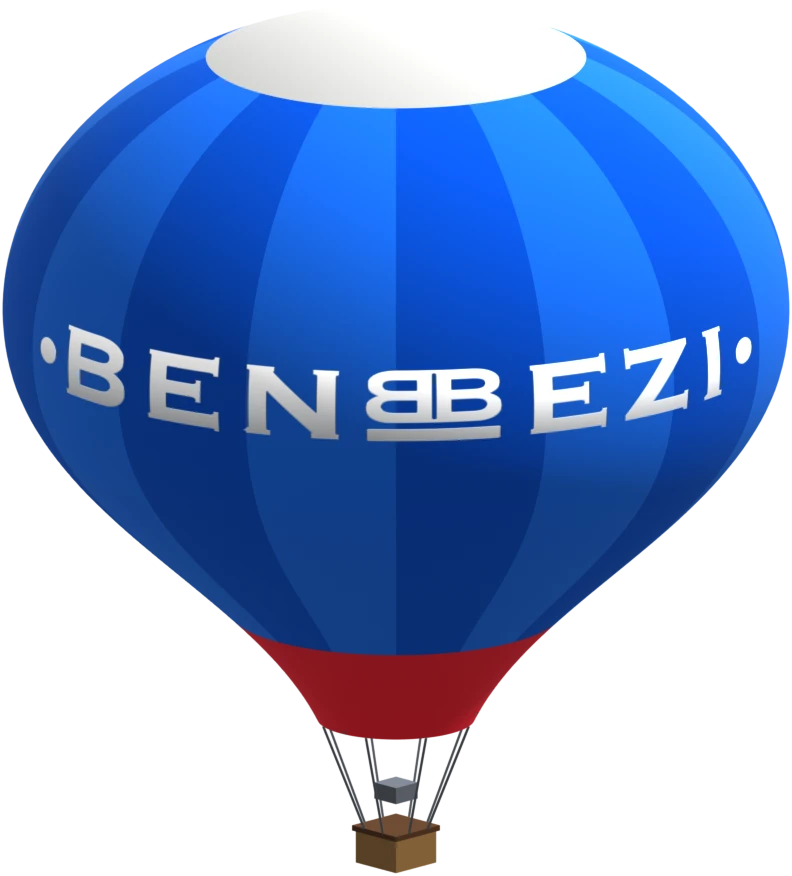
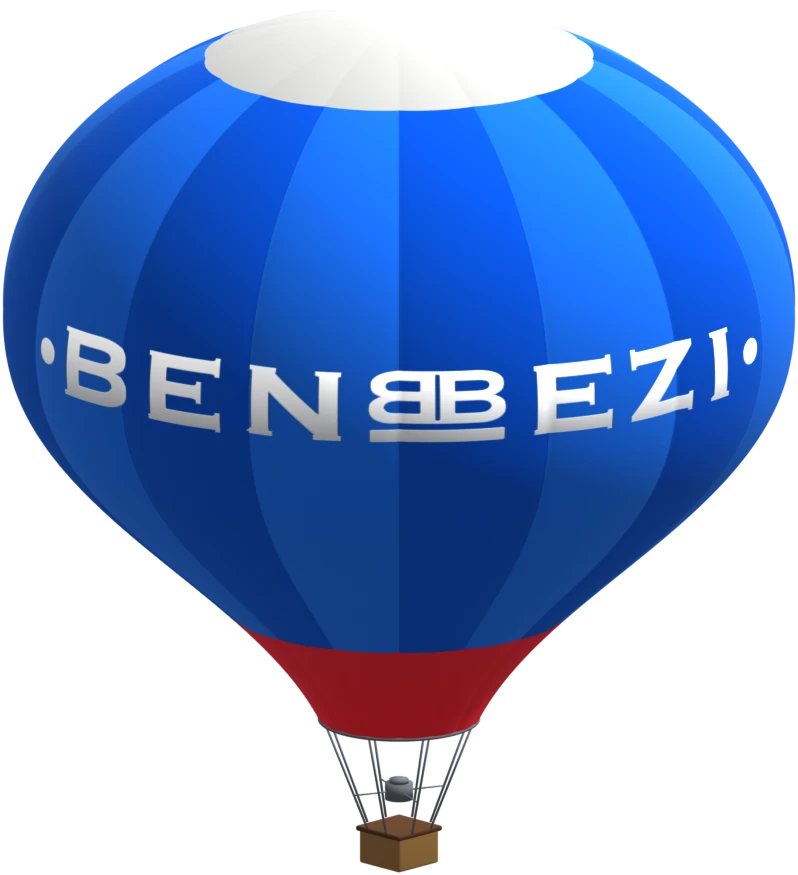
Montgolfiere en ultra poly : 512 cotes, 384 paralleles, la toile qui bombe
L'enveloppe passe de 128 x 96 a 512 x 384 (196 608 faces, 199 264 pour la
piece entiere). Les seize fuseaux bombent entre deux rubans de charge
(BOMBE = 1,4 %), comme une toile gonflee : la silhouette ondule a peine et
l'ombre se creuse a chaque couture. Plus rien n'y a moins de soixante-quatre
cotes : suspentes, bruleur et anneau de charge sont des tubes, la nacelle
et sa bordure des caissons aux aretes arrondies, et le bruleur pend aux
suspentes par quatre bras au lieu de flotter.

diff --git a/tools/blender/decors/champ-de-mars.py b/tools/blender/decors/champ-de-mars.py
@@ -622,11 +622,13 @@ def portique(racine, dessus=False):
 # blanche, le corps bleu ou court le logo BENBEZI, la jupe rouge — le
 # tricolore du lieu, du haut vers le bas.
 #
-# EN HAUTE DEFINITION, ET C'EST UNE CONSIGNE. Cent vingt-huit fuseaux et
-# quatre-vingt-seize paralleles, lisses : au-dessous de soixante-quatre
-# facettes (pieces.FACETTES_MIN), une enveloppe gonflee se lit comme une
-# boule a facettes. Les fuseaux alternent deux bleus, huit cotes chacun :
-# c'est la couture qu'on voit sur un vrai ballon, pas la maille.
+# EN ULTRA POLY, ET C'EST UNE CONSIGNE. Cinq cent douze cotes et trois cent
+# quatre-vingt-quatre paralleles, lisses — pres de deux cent mille faces pour
+# l'enveloppe seule ; rien, dans ce ballon, n'a moins de soixante-quatre
+# cotes (pieces.FACETTES_MIN) : suspentes, bruleur et anneau de charge sont
+# des tubes. Les seize fuseaux alternent deux bleus, et la toile BOMBE entre
+# deux rubans de charge, comme sur un vrai ballon gonfle : la silhouette
+# ondule a peine, et l'ombre se creuse a chaque couture.
 #
 # LE LOGO EST L'AFFICHE DES PANNEAUX (public/pubs), posee en texture sur le
 # devant. La camera regarde le long de (1, 1) : le devant du ballon est
@@ -638,7 +640,10 @@ def portique(racine, dessus=False):
 # le ballon sur la place qui lui reste dans le ciel.
 
 R_BALLON = 9.0
-FUSEAUX, PARALLELES = 128, 96
+FUSEAUX, PARALLELES = 512, 384
+NB_FUSEAUX = 16                      # les panneaux de toile, entre deux rubans
+BOMBE = 0.014                        # le gonflement de la toile entre deux rubans
+COTES = 64                           # le minimum de tout ce qui est rond
 F_LOGO = os.path.join(RACINE_PROJET, 'public', 'pubs', 'benbezi-logo-3d.webp')
 LOGO_ARC = math.radians(65)          # demi-ouverture du logo de part et d'autre du devant
 
@@ -689,6 +694,51 @@ def peinture_logo(nom, couleur, image, eclat_logo):
     return m
 
 
+def tube(bm, a, b, r):
+    """Un cylindre de COTES cotes, de a a b, ferme aux deux bouts."""
+    d = b - a
+    q = d.normalized().to_track_quat('Z', 'Y')
+    m = Matrix.Translation((a + b) / 2) @ q.to_matrix().to_4x4()
+    bmesh.ops.create_cone(bm, cap_ends=True, segments=COTES, radius1=r, radius2=r,
+                          depth=d.length, matrix=m)
+
+
+def tore(bm, R, z, r, n=COTES):
+    """L'anneau de charge : un tore de COTES x n/4 cotes, a plat a la hauteur z."""
+    m = max(16, n // 4)
+    v = [[bm.verts.new((math.cos(i / n * math.tau) * (R + r * math.cos(j / m * math.tau)),
+                        math.sin(i / n * math.tau) * (R + r * math.cos(j / m * math.tau)),
+                        z + r * math.sin(j / m * math.tau))) for j in range(m)] for i in range(n)]
+    for i in range(n):
+        for j in range(m):
+            bm.faces.new([v[i][j], v[(i + 1) % n][j], v[(i + 1) % n][(j + 1) % m], v[i][(j + 1) % m]])
+
+
+def lisse(nom, bm, mat, racine):
+    """Un maillage lisse, range sous le repere du jeu."""
+    bmesh.ops.recalc_face_normals(bm, faces=bm.faces[:])
+    me = bpy.data.meshes.new(nom)
+    bm.to_mesh(me)
+    bm.free()
+    o = bpy.data.objects.new(nom, me)
+    bpy.context.collection.objects.link(o)
+    o.data.materials.append(mat)
+    for p in o.data.polygons:
+        p.use_smooth = True
+    o.parent = racine
+    return o
+
+
+def caisson(nom, mat, racine, centre, taille, arrondi):
+    """Une boite aux aretes arrondies, de huit segments par arete."""
+    bm = bmesh.new()
+    bmesh.ops.create_cube(bm, size=1.0, matrix=Matrix.Translation(centre) @
+                          Matrix.Diagonal((*taille, 1.0)))
+    bmesh.ops.bevel(bm, geom=bm.edges[:] + bm.verts[:], offset=arrondi, segments=8,
+                    affect='EDGES', profile=0.5)
+    return lisse(nom, bm, mat, racine)
+
+
 def montgolfiere(racine):
     R = R_BALLON
     front = Vector((-1, -1, 0)).normalized()
@@ -714,7 +764,9 @@ def montgolfiere(racine):
         anneau = []
         for i in range(FUSEAUX):
             a = i / FUSEAUX * math.tau
-            p = (front * math.cos(a) + droite * math.sin(a)) * rho
+            frac = (i * NB_FUSEAUX / FUSEAUX) % 1.0
+            gonfle = 1 + BOMBE * math.sin(math.pi * frac) ** 0.7
+            p = (front * math.cos(a) + droite * math.sin(a)) * (rho * gonfle)
             anneau.append(bm.verts.new((p.x, p.y, z_eq + z)))
         anneaux.append(anneau)
     # le logo : haut comme le veut son image, sur l'arc LOGO_ARC
@@ -735,7 +787,7 @@ def montgolfiere(racine):
             i2 = (i + 1) % FUSEAUX
             vs = [haut[0], bas[i2], bas[i]] if j == 0 else [haut[i], haut[i2], bas[i2], bas[i]]
             f = bm.faces.new(vs)
-            fuseau = (i // 8) % 2
+            fuseau = (i * NB_FUSEAUX // FUSEAUX) % 2
             am = math.atan2(math.sin((i + 0.5) / FUSEAUX * math.tau), math.cos((i + 0.5) / FUSEAUX * math.tau))
             zm = sum(v.co.z for v in vs) / len(vs)
             if tm < 0.16:
@@ -761,22 +813,32 @@ def montgolfiere(racine):
         p.use_smooth = True
     o.parent = racine
 
-    # la nacelle d'osier, sa bordure de cuir, les suspentes et le bruleur
+    # la nacelle d'osier et sa bordure de cuir, aux aretes arrondies ; les
+    # suspentes, le bruleur et l'anneau de charge, en tubes
     osier, cuir = peinture('osier', 'osier'), peinture('cuir', 'cuir', 0.6)
-    Ln, Lb, Ls = Lot(), Lot(), Lot()
+    acier = peinture('suspente', 'metalSombre', 0.4)
     c = 0.65
-    Ln.boite(-c, -c, 0.0, c, c, 1.1)
-    Lb.boite(-c - 0.06, -c - 0.06, 1.0, c + 0.06, c + 0.06, 1.16)
+    caisson('nacelle', osier, racine, (0, 0, 0.55), (2 * c, 2 * c, 1.1), 0.07)
+    caisson('nacelle_bord', cuir, racine, (0, 0, 1.08), (2 * c + 0.12, 2 * c + 0.12, 0.16), 0.06)
     rb = profil_ballon(1.0)[0]
+    bm = bmesh.new()
     for k in range(8):
         a = k / 8 * math.tau + math.pi / 8
         haut = Vector((math.cos(a) * rb, math.sin(a) * rb, z_bouche))
         coin = Vector((math.cos(a) * c * 1.2, math.sin(a) * c * 1.2, 1.16))
-        Ls.poutre(coin, haut, 0.05)
-    Ls.boite(-0.35, -0.35, 2.0, 0.35, 0.35, 2.5)
-    Ln.objet('nacelle', osier, racine)
-    Lb.objet('nacelle_bord', cuir, racine)
-    Ls.objet('suspentes', peinture('suspente', 'metalSombre', 0.4), racine)
+        tube(bm, coin, haut, 0.025)
+    tube(bm, Vector((0, 0, 2.0)), Vector((0, 0, 2.5)), 0.32)
+    tube(bm, Vector((0, 0, 2.5)), Vector((0, 0, 2.62)), 0.22)
+    # le bruleur pend aux suspentes par quatre bras
+    zb = 2.25
+    tb = (zb - 1.16) / (z_bouche - 1.16)
+    for k in range(0, 8, 2):
+        a = k / 8 * math.tau + math.pi / 8
+        rs = c * 1.2 + (rb - c * 1.2) * tb
+        tube(bm, Vector((math.cos(a) * 0.3, math.sin(a) * 0.3, zb)),
+             Vector((math.cos(a) * rs, math.sin(a) * rs, zb)), 0.02)
+    tore(bm, rb, z_bouche, 0.06)
+    lisse('suspentes', bm, acier, racine)
     return {'ballon': {'z_eq': round(z_eq, 3), 'r': R}}
 
 
